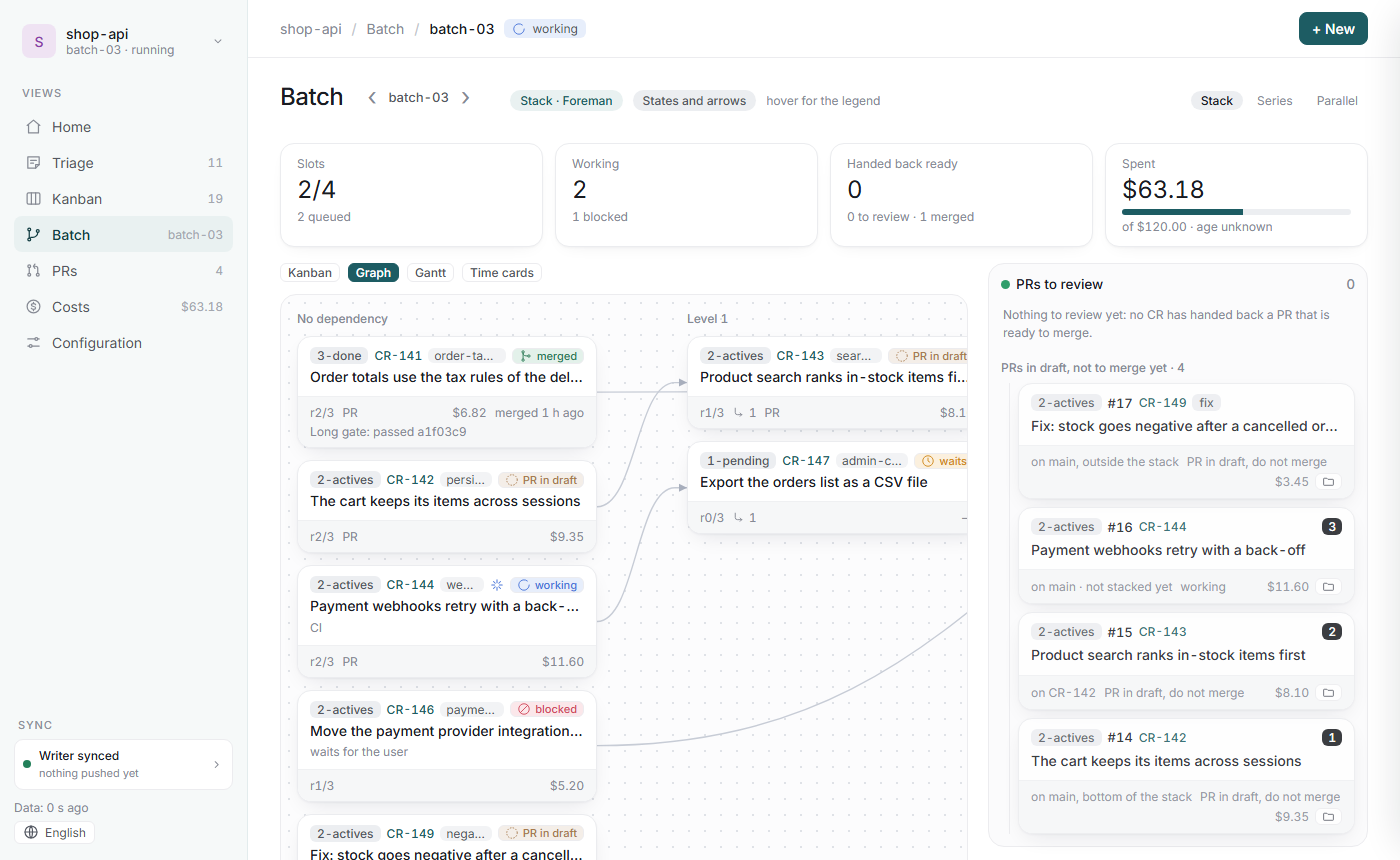
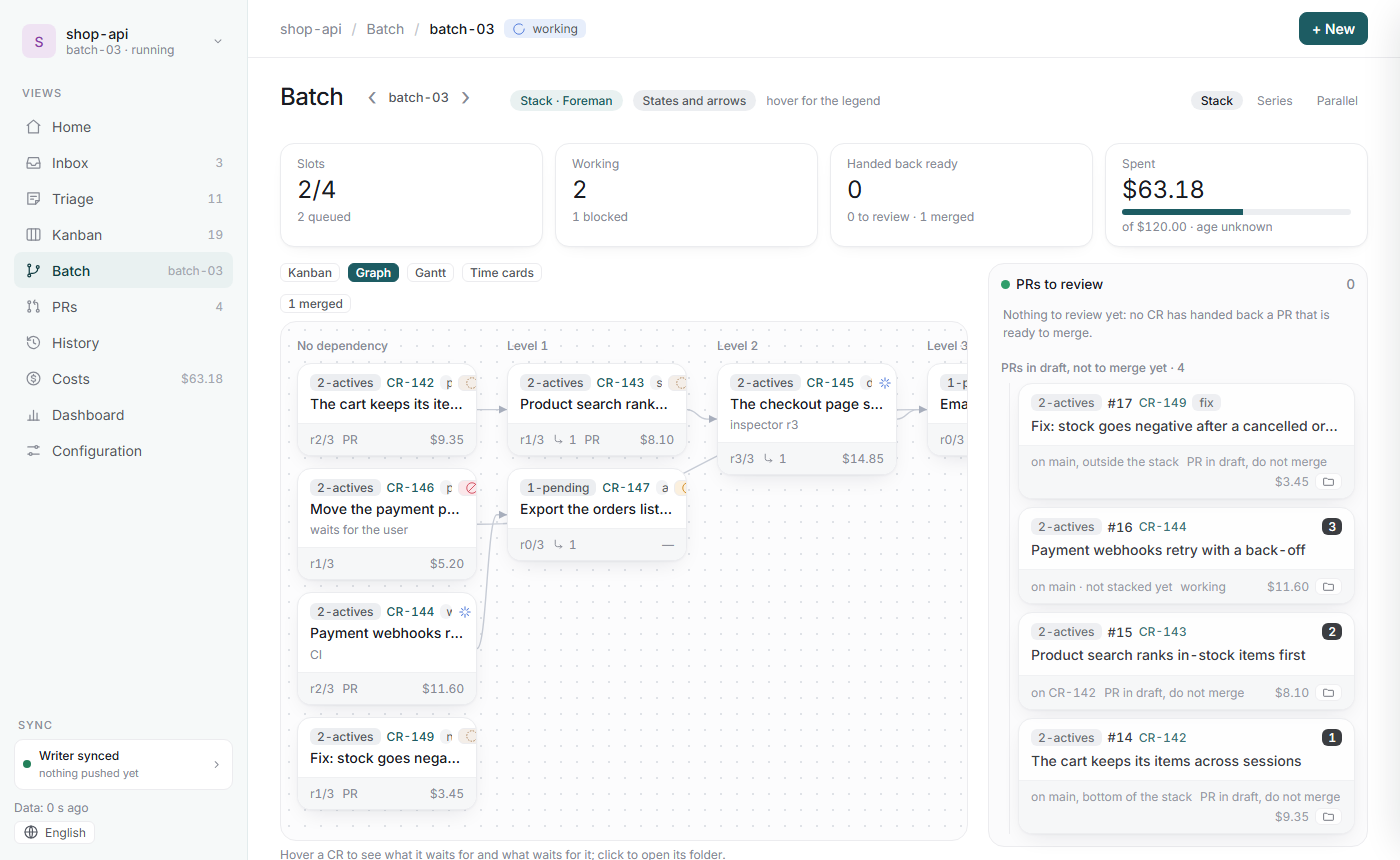
docs(board): batch graph layout in the design notes, the demo and the picture

diff --git a/docs/web-board.md b/docs/web-board.md
@@ -37,7 +37,7 @@ The Inbox lists what waits for you, newest first, for the project chosen, or for
 
 ![The batch: levels, PRs to review and PRs in draft](web-board/batch-pc.png)
 
-The batch in four figures (the slots, the CRs working, the CRs handed back ready, what was spent), then the CRs as boxes in levels, "Level 1", "Level 2" and so on: a CR sits in the level below the CRs it waits for, and an arrow goes from a CR to the one that waits for it. Each CR stays in one place for its whole life, merged ones included. The state is a badge in the CR's top right corner, its icon and word in the state's colour: blocked, working, **ready to merge**, **PR in draft**, **ready locally** (done, no PR yet), waits, queued, merged; its legend is in the "States and arrows" tooltip. Hover a CR to see what it waits for and what waits for it; a click opens its folder. A CR that waits for several others takes all its arrows at one point of its left edge, under one arrowhead. When you hover or focus a CR, its arrows are drawn above the cards, so an arrow that skips a level can be followed from end to end.
+The batch in four figures (the slots, the CRs working, the CRs handed back ready, what was spent), then the CRs as boxes in levels, "Level 1", "Level 2" and so on: a CR sits in the level below the CRs it waits for, and an arrow goes from a CR to the one that waits for it. A CR keeps its place while the batch's waits do not change; it moves when a wait changes, or when a CR merges or is cancelled while the merged CRs are folded. The merged and cancelled CRs are folded behind a chip, "N merged", above the graph; click it to show them in their levels. The state is a badge in the CR's top right corner, its icon and word in the state's colour: blocked, working, **ready to merge**, **PR in draft**, **ready locally** (done, no PR yet), waits, queued, merged; its legend is in the "States and arrows" tooltip. Hover a CR to see what it waits for and what waits for it; a click opens its folder. A CR that waits for several others takes all its arrows at one point of its left edge, under one arrowhead. Only the waits that no chain of arrows already implies are drawn: hover a CR to light every CR it waits for, and its wait count lists them all. When you hover or focus a CR, its arrows are drawn above the cards, so an arrow that skips a level can be followed from end to end.
 
 ![The batch's graph: levels and the arrows between CRs](web-board/batch-graph-pc.png)
 

diff --git a/skills/chantier/scripts/cli/src/chantier/clients/web/DESIGN.md b/skills/chantier/scripts/cli/src/chantier/clients/web/DESIGN.md
@@ -351,7 +351,26 @@ legend and the Stack / Series / Parallel switch sit in the title row, built by
   the cards (`svg.edges.top`, `z-index` 2, no pointer events), so an arrow that skips a level can
   be followed end to end.
 - No routing around cards, and no new colour, size or token.
+- Only the transitive reduction of the waits among the drawn CRs is drawn (`reducedEdges`); the
+  Gantt keeps every declared wait.
+- A hover still lights every declared wait's card, the implied ones included.
+- A node's wait count holds every declared wait, and names them in its `title`.
 - The Gantt keeps its own markers.
+
+## The Batch graph's layout
+
+- The levels share the central column (`flex: 1 1 0`, 180px to 300px, 30px apart); the box scrolls
+  sideways only when they do not fit.
+- The canvas is measured from zero at each draw, so it is as tall as the tallest drawn level.
+- Within a level, cards follow a three-pass barycentre order of the drawn arrows, ties in record
+  order, never a state or a time.
+- A card's place changes when a wait changes or, while folded, when a CR merges or is cancelled;
+  the rule that each CR keeps one place for its whole life no longer holds.
+- On a live batch the merged and cancelled CRs are folded behind the "N merged" toggle chip
+  (`.gbar`), unfolded back into today's levels; a closed record has no fold.
+- On a level narrower than 240px the state badge shows its icon only (`graph-level` container,
+  `chip.css`).
+- No new colour, size or token.
 
 ## Waits on a card
 
